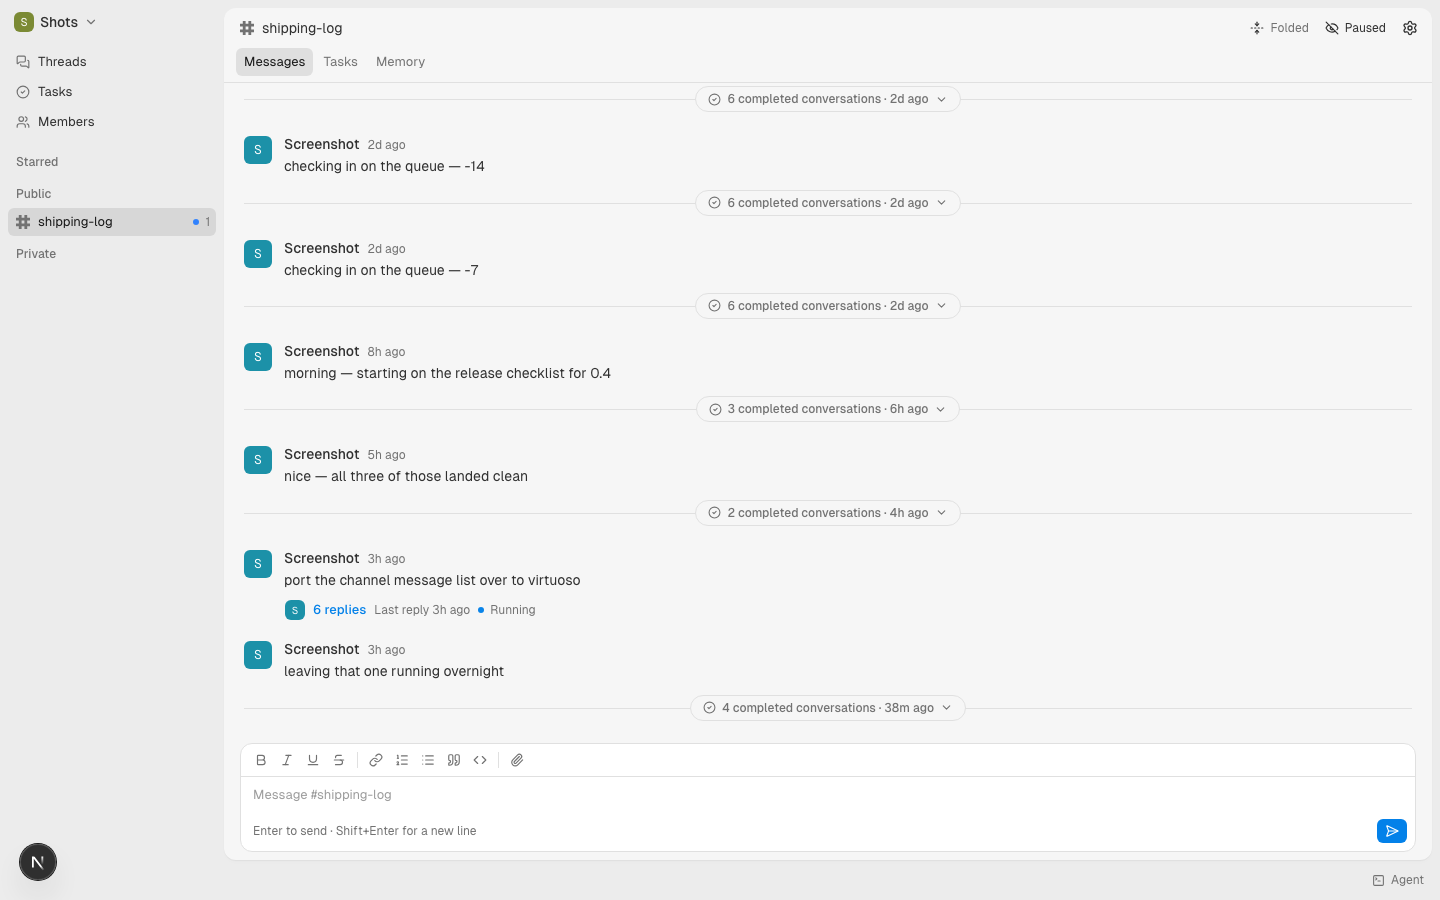
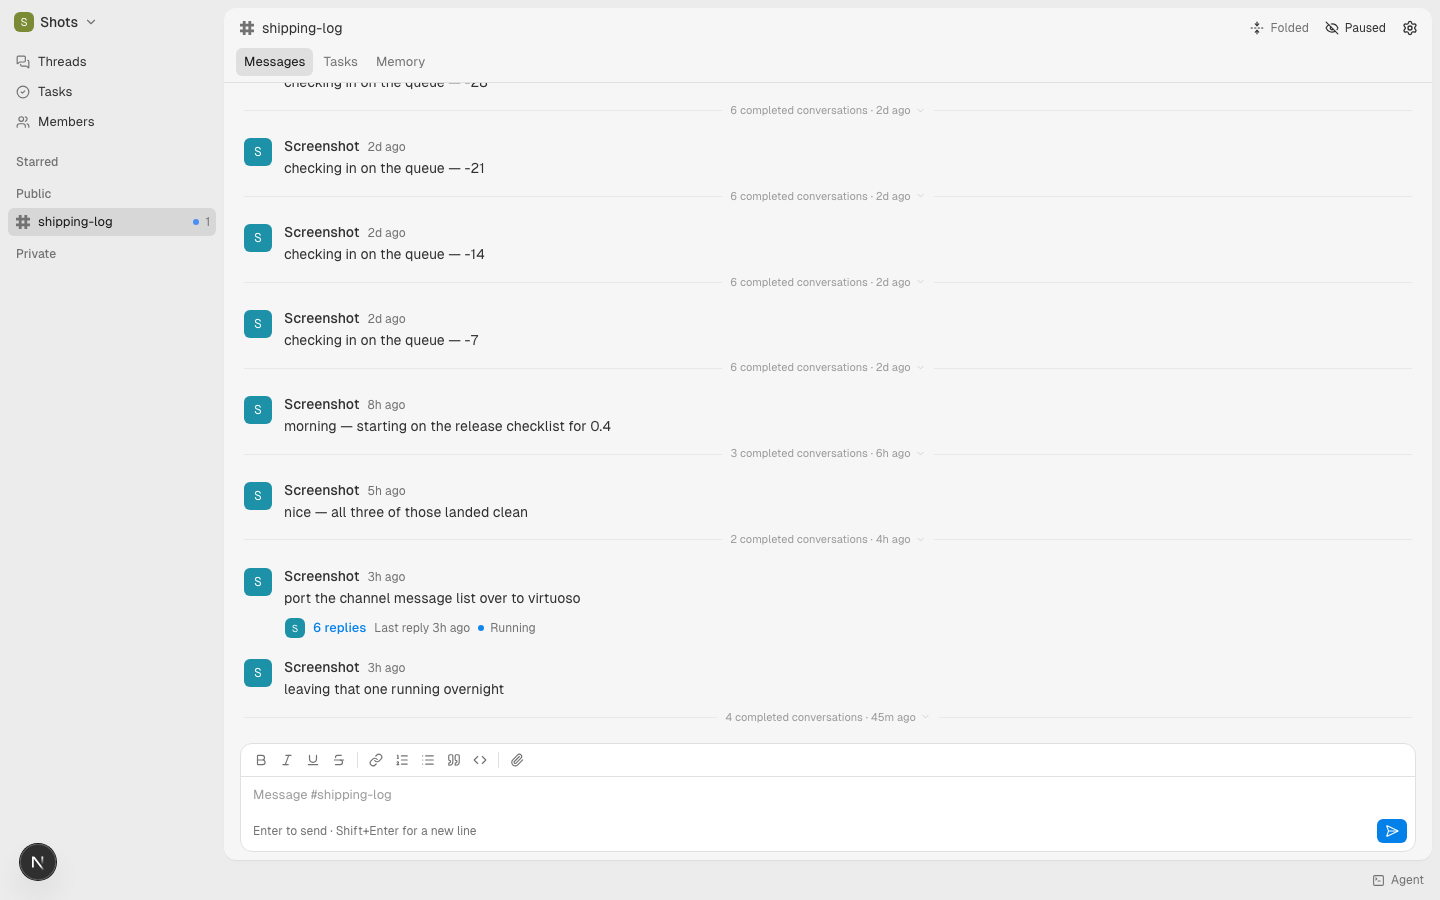
feat(web): quieten the band down to a seam
Rule, border, pill fill, tick and chevron was a lot of furniture for a row
that repeats down the whole channel — a dozen of them read louder than the
messages they were meant to get out of the way of.

What is left is the line and small muted text sitting on it: no border, no
fill beyond the paint that masks the rule, no tick, and a chevron at 40%
that only turns over when the band opens. The text lifts to full muted on
hover, so the row still answers when you point at it.

Also stop mutating the anchor ref during render. It was written while
rendering and read to build firstItemIndex, so a render React discarded
could leave it disagreeing with the rows that were committed. The anchor is
state now and the index is derived from it.

diff --git a/apps/web/src/components/messages/completed-band.tsx b/apps/web/src/components/messages/completed-band.tsx
@@ -1,7 +1,7 @@
 "use client";
 
 import { cn } from "@roster/ui";
-import { ChevronDown, CircleCheck } from "lucide-react";
+import { ChevronDown } from "lucide-react";
 import { memo } from "react";
 
 import { bandLabel } from "~/utils/channel-rows";
@@ -21,25 +21,24 @@ export const CompletedBand = memo(function CompletedBand({
   onToggle,
 }: CompletedBandProps) {
   return (
-    <div className="relative px-3 py-2.5 sm:px-5">
+    <div className="group/band relative px-3 py-1.5 sm:px-5">
       <span
         aria-hidden
-        className="border-border absolute inset-x-3 top-1/2 border-t sm:inset-x-5"
+        className="border-border/60 absolute inset-x-3 top-1/2 border-t sm:inset-x-5"
       />
       <span className="relative flex justify-center">
         <button
           type="button"
           onClick={onToggle}
           aria-expanded={expanded}
-          className="bg-background-2 border-border text-muted-foreground hover:bg-background-3 hover:text-foreground flex items-center gap-1.5 rounded-full border px-3 py-1 text-xs font-medium"
+          className="bg-background-2 text-muted-foreground/70 group-hover/band:text-muted-foreground flex items-center gap-1 px-2 text-[11px]"
         >
-          <CircleCheck size={13} className="shrink-0" />
           <span suppressHydrationWarning>
             {`${bandLabel(count)} · ${relativeTime(lastAt)}`}
           </span>
           <ChevronDown
-            size={13}
-            className={cn("shrink-0", expanded && "rotate-180")}
+            size={11}
+            className={cn("shrink-0 opacity-40", expanded && "rotate-180")}
           />
         </button>
       </span>

diff --git a/apps/web/src/components/messages/message-panel.tsx b/apps/web/src/components/messages/message-panel.tsx
@@ -2,7 +2,7 @@
 
 import { useQuery, useQueryClient } from "@tanstack/react-query";
 import { useRouter, useSearchParams } from "next/navigation";
-import { useCallback, useMemo, useRef, useState } from "react";
+import { useCallback, useEffect, useMemo, useRef, useState } from "react";
 
 import { useChannelRealtime } from "~/hooks/use-channel-realtime";
 import { useCollapseCompleted } from "~/hooks/use-collapse-completed";
@@ -106,13 +106,16 @@ export function MessagePanel({
     [messages, threadsByRootMessage, collapse, expanded],
   );
 
-  const anchorRef = useRef<string | undefined>(undefined);
-  if (anchorRef.current === undefined) anchorRef.current = messages[0]?.id;
+  const [anchorId, setAnchorId] = useState<string | undefined>(
+    () => initialMessages[0]?.id,
+  );
 
-  const aboveAnchorRef = useRef(0);
-  const above = anchorRowIndex(rows, anchorRef.current);
-  if (above !== null) aboveAnchorRef.current = above;
-  const firstItemIndex = START_INDEX - aboveAnchorRef.current;
+  const above = anchorRowIndex(rows, anchorId);
+  const firstItemIndex = START_INDEX - (above ?? 0);
+
+  useEffect(() => {
+    if (above === null) setAnchorId(messages[0]?.id);
+  }, [above, messages]);
 
   const [loadingOlder, setLoadingOlder] = useState(false);
   const loadingRef = useRef(false);
